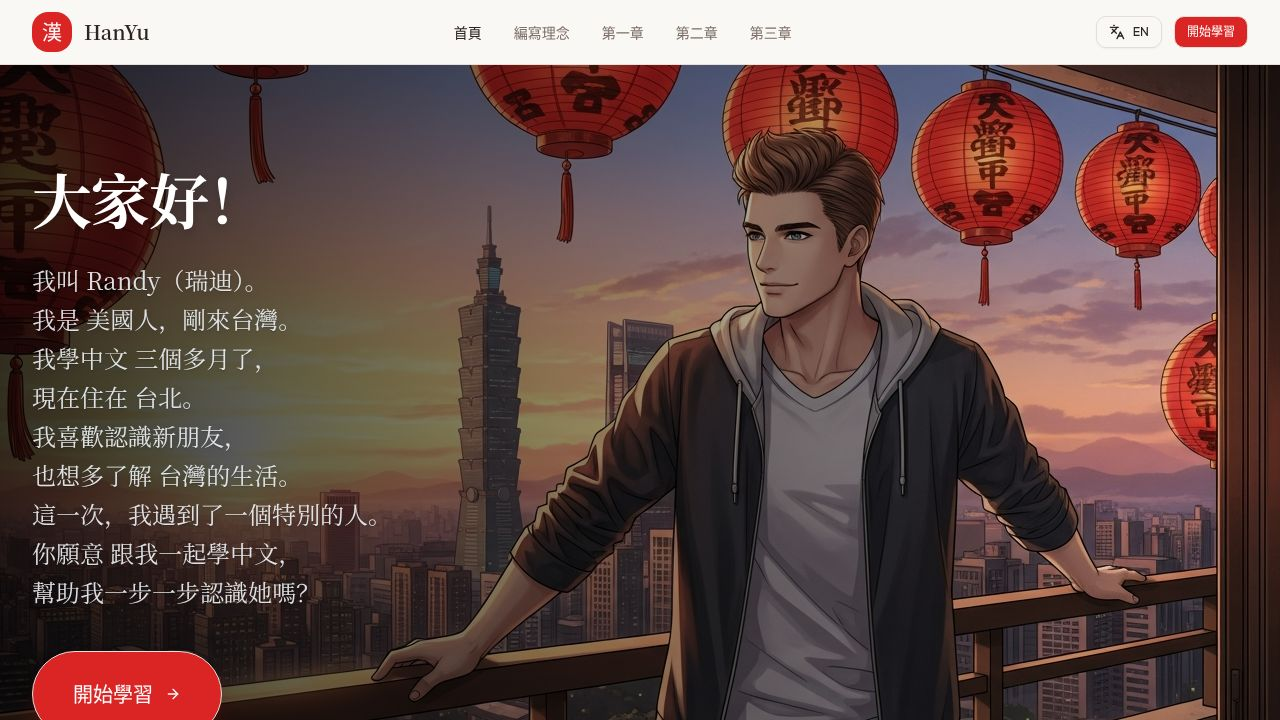
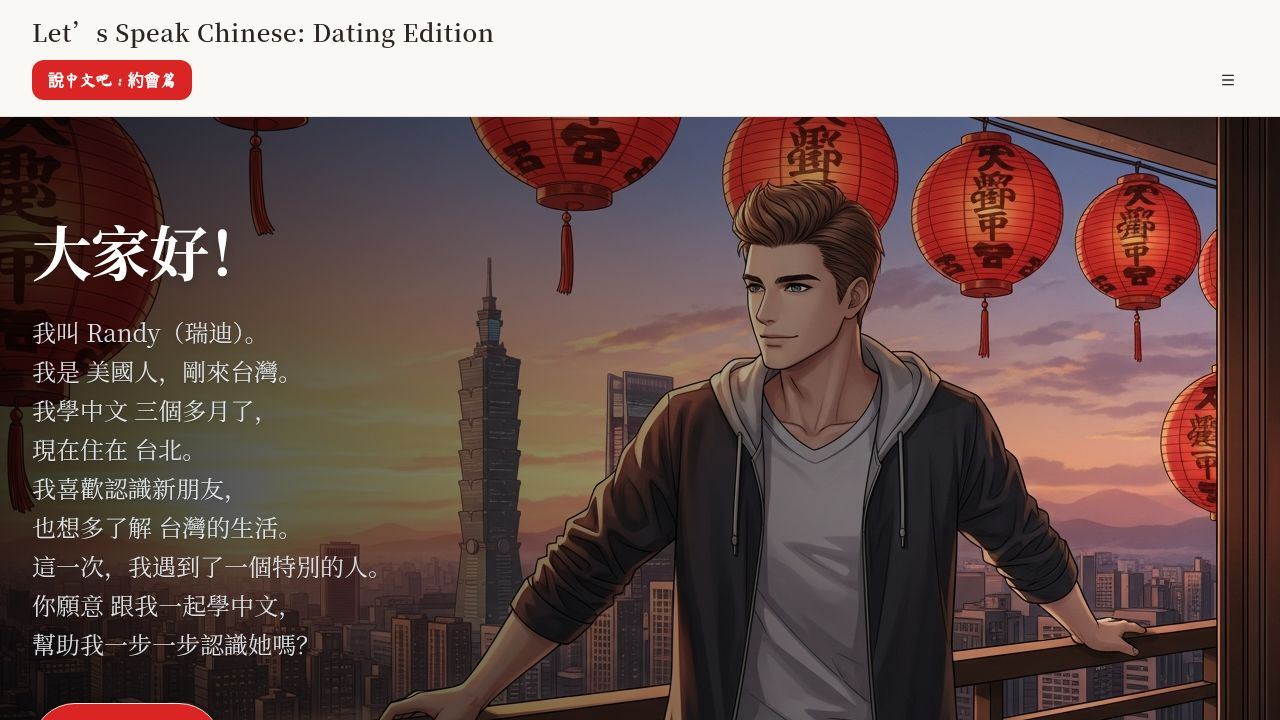
Update website header to include new title and navigation menu
Refactors header component to implement a two-row layout with an English title and a Chinese badge. Adds a collapsible sidebar menu with navigation links for Home, Philosophy, and Chapters 1-3. Removes old logo, start learning, and translation buttons.

Replit-Commit-Author: Agent
Replit-Commit-Session-Id: f5517adb-6271-45bf-8a5d-8714c1532456
Replit-Commit-Checkpoint-Type: full_checkpoint
Replit-Commit-Event-Id: 8f0d04ad-35cc-4ac1-ac05-87d91f838852
Replit-Commit-Screenshot-Url: https://storage.googleapis.com/screenshot-production-us-central1/5dcf2843-d3e7-4715-9185-db667d82b80a/f5517adb-6271-45bf-8a5d-8714c1532456/hOZdnE0
Replit-Helium-Checkpoint-Created: true

diff --git a/client/src/pages/home.tsx b/client/src/pages/home.tsx
@@ -26,6 +26,7 @@ import appLogo from "@/assets/generated_images/app_logo.png";
 import chineseCulturalBg from "@assets/generated_images/light_chinese_lanterns_architecture_background.png";
 import { type Language, getTranslations } from "@/lib/i18n";
 import { Link } from "wouter";
+import { Header } from "@/components/Header";
 
 const flashcards = [
   { character: "你好", pinyin: "nǐ hǎo", meaning: "Hello", meaningZh: "問候語" },
@@ -355,39 +356,7 @@ export default function Home() {
 
   return (
     <div className="min-h-screen bg-background">
-      <header className="sticky top-0 z-50 bg-background/80 backdrop-blur-lg border-b border-border">
-        <div className="max-w-7xl mx-auto px-4 sm:px-6 lg:px-8">
-          <div className="flex items-center justify-between h-16">
-            <div className="flex items-center gap-3">
-              <img src={appLogo} alt="Logo" className="w-10 h-10 object-contain" />
-              <div className="px-3 py-2 rounded-xl bg-primary flex items-center justify-center">
-                <span className="text-sm font-bold font-chinese text-primary-foreground whitespace-nowrap">說中文吧：約會篇</span>
-              </div>
-              <span className="text-xl font-semibold font-serif-chinese hidden xl:inline-block">Let’s Speak Chinese: Dating Edition</span>
-            </div>
-            <nav className="hidden md:flex items-center gap-8">
-              <a href="#" className="text-sm font-medium brush-underline text-foreground" data-testid="nav-home">{t.nav.home}</a>
-              <Link href="/philosophy" className="text-sm font-medium brush-underline text-muted-foreground hover:text-foreground transition-colors" data-testid="nav-philosophy">{t.nav.philosophy}</Link>
-              <Link href="/chapter1" className="text-sm font-medium brush-underline text-muted-foreground hover:text-foreground transition-colors" data-testid="nav-chapter1">{t.nav.chapter1}</Link>
-              <Link href="/chapter2" className="text-sm font-medium brush-underline text-muted-foreground hover:text-foreground transition-colors" data-testid="nav-chapter2">{t.nav.chapter2}</Link>
-              <Link href="/chapter3" className="text-sm font-medium brush-underline text-muted-foreground hover:text-foreground transition-colors" data-testid="nav-chapter3">{t.nav.chapter3}</Link>
-            </nav>
-            <div className="flex items-center gap-3">
-              <Button 
-                variant="outline" 
-                size="sm" 
-                className="gap-2"
-                onClick={toggleLang}
-                data-testid="button-lang-toggle"
-              >
-                <Languages className="w-4 h-4" />
-                {lang === "zh" ? "EN" : "中文"}
-              </Button>
-              <Button size="sm" className="bg-primary hover:bg-primary/90" data-testid="button-signup">{t.nav.getStarted}</Button>
-            </div>
-          </div>
-        </div>
-      </header>
+      <Header />
 
       <section className="relative overflow-hidden min-h-[100vh] flex items-center justify-center bg-black/10">
         <div 

diff --git a/client/src/pages/chapter1.tsx b/client/src/pages/chapter1.tsx
@@ -20,6 +20,7 @@ import { Badge } from "@/components/ui/badge";
 import appLogo from "@/assets/generated_images/app_logo.png";
 import { type Language, getTranslations, translations } from "@/lib/i18n";
 import { Link } from "wouter";
+import { Header } from "@/components/Header";
 // @ts-ignore
 import casualManImage from '@assets/generated_images/asian_man_in_casual_clothes.png';
 // @ts-ignore
@@ -792,42 +793,7 @@ export default function Chapter1() {
 
   return (
     <div className="min-h-screen bg-background">
-      <header className="sticky top-0 z-50 bg-background/80 backdrop-blur-lg border-b border-border">
-        <div className="max-w-7xl mx-auto px-4 sm:px-6 lg:px-8">
-          <div className="flex items-center justify-between h-16">
-            <div className="flex items-center gap-3">
-              <Link href="/">
-                <div className="flex items-center gap-3 cursor-pointer">
-                  <img src={appLogo} alt="Logo" className="w-10 h-10 object-contain" />
-                  <div className="px-3 py-2 rounded-xl bg-primary flex items-center justify-center">
-                    <span className="text-sm font-bold font-chinese text-primary-foreground whitespace-nowrap">說中文吧：約會篇</span>
-                  </div>
-                  <span className="text-xl font-semibold font-serif-chinese hidden xl:inline-block">Let’s Speak Chinese: Dating Edition</span>
-                </div>
-              </Link>
-            </div>
-            <nav className="hidden md:flex items-center gap-8">
-              <Link href="/" className="text-sm font-medium brush-underline text-muted-foreground hover:text-foreground transition-colors" data-testid="nav-home">{t.nav.home}</Link>
-              <Link href="/philosophy" className="text-sm font-medium brush-underline text-muted-foreground hover:text-foreground transition-colors" data-testid="nav-philosophy">{t.nav.philosophy}</Link>
-              <a href="#" className="text-sm font-medium brush-underline text-foreground" data-testid="nav-chapter1">{t.nav.chapter1}</a>
-              <Link href="/chapter2" className="text-sm font-medium brush-underline text-muted-foreground hover:text-foreground transition-colors" data-testid="nav-chapter2">{t.nav.chapter2}</Link>
-              <Link href="/chapter3" className="text-sm font-medium brush-underline text-muted-foreground hover:text-foreground transition-colors" data-testid="nav-chapter3">{t.nav.chapter3}</Link>
-            </nav>
-            <div className="flex items-center gap-3">
-              <Button 
-                variant="outline" 
-                size="sm" 
-                className="gap-2"
-                onClick={toggleLang}
-                data-testid="button-lang-toggle"
-              >
-                <Languages className="w-4 h-4" />
-                {lang === "zh" ? "EN" : "中文"}
-              </Button>
-            </div>
-          </div>
-        </div>
-      </header>
+      <Header />
 
       <main className="max-w-4xl mx-auto px-4 sm:px-6 lg:px-8 py-12">
         <motion.div

diff --git a/client/src/pages/philosophy.tsx b/client/src/pages/philosophy.tsx
@@ -6,6 +6,7 @@ import { Button } from "@/components/ui/button";
 import appLogo from "@/assets/generated_images/app_logo.png";
 import { getTranslations, type Language } from "@/lib/i18n";
 import { Link } from "wouter";
+import { Header } from "@/components/Header";
 
 export default function Philosophy() {
   const [lang, setLang] = useState<Language>("zh");
@@ -18,39 +19,7 @@ export default function Philosophy() {
 
   return (
     <div className="min-h-screen bg-background">
-      <header className="sticky top-0 z-50 bg-background/80 backdrop-blur-lg border-b border-border">
-        <div className="max-w-7xl mx-auto px-4 sm:px-6 lg:px-8">
-          <div className="flex items-center justify-between h-16">
-            <Link href="/" className="flex items-center gap-3 cursor-pointer">
-              <img src={appLogo} alt="Logo" className="w-10 h-10 object-contain" />
-              <div className="px-3 py-2 rounded-xl bg-primary flex items-center justify-center">
-                <span className="text-sm font-bold font-chinese text-primary-foreground whitespace-nowrap">說中文吧：約會篇</span>
-              </div>
-              <span className="text-xl font-semibold font-serif-chinese hidden xl:inline-block">Let’s Speak Chinese: Dating Edition</span>
-            </Link>
-            <nav className="hidden md:flex items-center gap-8">
-              <Link href="/" className="text-sm font-medium brush-underline text-muted-foreground hover:text-foreground transition-colors" data-testid="nav-home">{t.nav.home}</Link>
-              <Link href="/philosophy" className="text-sm font-medium brush-underline text-foreground" data-testid="nav-philosophy">{t.nav.philosophy}</Link>
-              <Link href="/chapter1" className="text-sm font-medium brush-underline text-muted-foreground hover:text-foreground transition-colors" data-testid="nav-chapter1">{t.nav.chapter1}</Link>
-              <Link href="/chapter2" className="text-sm font-medium brush-underline text-muted-foreground hover:text-foreground transition-colors" data-testid="nav-chapter2">{t.nav.chapter2}</Link>
-              <Link href="/chapter3" className="text-sm font-medium brush-underline text-muted-foreground hover:text-foreground transition-colors" data-testid="nav-chapter3">{t.nav.chapter3}</Link>
-            </nav>
-            <div className="flex items-center gap-3">
-              <Button 
-                variant="outline" 
-                size="sm" 
-                className="gap-2"
-                onClick={toggleLang}
-                data-testid="button-lang-toggle"
-              >
-                <Languages className="w-4 h-4" />
-                {lang === "zh" ? "EN" : "中文"}
-              </Button>
-              <Button size="sm" className="bg-primary hover:bg-primary/90" data-testid="button-signup">{t.nav.getStarted}</Button>
-            </div>
-          </div>
-        </div>
-      </header>
+      <Header />
 
       <main className="max-w-4xl mx-auto px-4 sm:px-6 lg:px-8 py-12 md:py-20">
         <motion.div

diff --git a/client/src/components/Header.tsx b/client/src/components/Header.tsx
@@ -1,0 +1,77 @@
+import { Link, useLocation } from "wouter";
+import { Menu } from "lucide-react";
+import { Button } from "@/components/ui/button";
+import {
+  Sheet,
+  SheetContent,
+  SheetHeader,
+  SheetTitle,
+  SheetTrigger,
+} from "@/components/ui/sheet";
+
+export function Header() {
+  const [location] = useLocation();
+  const menuItems = [
+    { href: "/", label: "首頁" },
+    { href: "/philosophy", label: "編寫理念" },
+    { href: "/chapter1", label: "第一章" },
+    { href: "/chapter2", label: "第二章" },
+    { href: "/chapter3", label: "第三章" },
+  ];
+
+  return (
+    <header className="sticky top-0 z-50 bg-background/80 backdrop-blur-lg border-b border-border">
+      <div className="max-w-7xl mx-auto px-4 sm:px-6 lg:px-8 py-4">
+        <div className="flex flex-col gap-3">
+          {/* Top Row: English Title */}
+          <div>
+             <span className="text-xl md:text-2xl font-semibold font-serif-chinese tracking-wide">
+                Let’s Speak Chinese: Dating Edition
+             </span>
+          </div>
+
+          {/* Bottom Row: Chinese Badge + Menu */}
+          <div className="flex items-center justify-between">
+            <div className="px-4 py-2 rounded-lg bg-primary inline-flex items-center justify-center">
+               <span className="text-base font-bold font-chinese text-primary-foreground whitespace-nowrap">
+                 說中文吧：約會篇
+               </span>
+            </div>
+
+            <Sheet>
+              <SheetTrigger asChild>
+                <Button variant="ghost" size="icon" className="h-10 w-10">
+                  <Menu className="h-6 w-6" />
+                </Button>
+              </SheetTrigger>
+              <SheetContent side="right" className="w-[300px] sm:w-[400px]">
+                <SheetHeader>
+                  <SheetTitle className="font-serif-chinese text-left mb-6 text-2xl">
+                    目錄 Menu
+                  </SheetTitle>
+                </SheetHeader>
+                <nav className="flex flex-col gap-6">
+                  {menuItems.map((item) => (
+                    <Link key={item.href} href={item.href}>
+                      <div className="flex items-center justify-between group cursor-pointer">
+                        <span
+                          className={`text-xl font-medium font-serif-chinese transition-colors ${
+                            location === item.href
+                              ? "text-primary font-bold"
+                              : "text-foreground group-hover:text-primary"
+                          }`}
+                        >
+                          {item.label}
+                        </span>
+                      </div>
+                    </Link>
+                  ))}
+                </nav>
+              </SheetContent>
+            </Sheet>
+          </div>
+        </div>
+      </div>
+    </header>
+  );
+}
